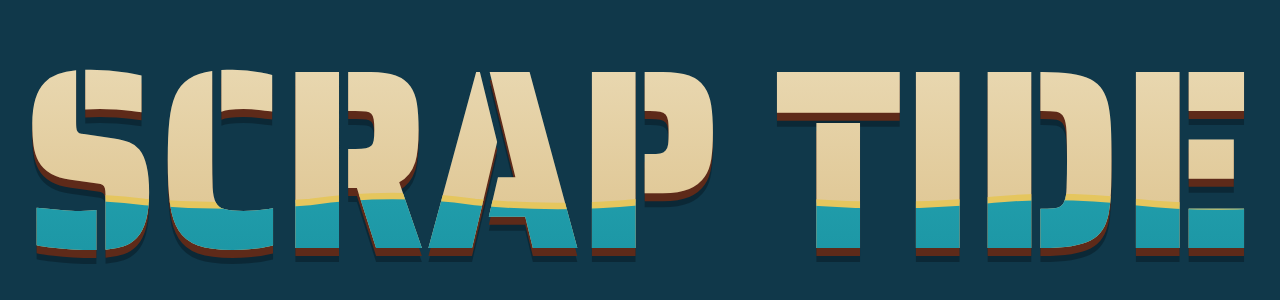
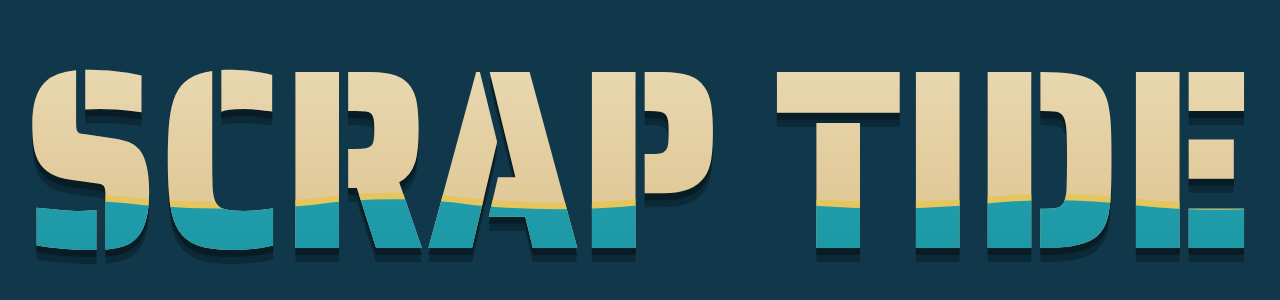
Branding: the wordmark source file matches the game (deep Abyss shadow, no brown)
- creative/branding/wordmark_scrap-tide_v1.svg regenerated from wordmarkSVG() with the font kept embedded:
  one shared text layout (<use>, with xlink:href for older editors), deep Abyss shadow, no #5E2A19 layer.
- Both PNGs re-rendered at 1280x300 (transparent, and on Abyss Blue #10384A).
- Brand guide: the wordmark's shadow is Abyss, not Oxide Rust; note to regenerate the file when the function changes.

Untouched on purpose: the TIDEBREAKERS-era v3 wordmarks (navy/gold, no brown) and the historical before/after
screens in docs.

Claude-Session: https://claude.ai/code/session_0186uXpUkXPpsTStSECZjk7H

diff --git a/docs/brand/SCRAP-TIDE-brand.md b/docs/brand/SCRAP-TIDE-brand.md
@@ -27,11 +27,14 @@ In code: `src/ui/brand.ts` (`PALETTE`) and the `:root` tokens in `src/ui/styles.
 
 ## Wordmark
 
-`creative/branding/wordmark_scrap-tide_v1.svg` (self-contained, font embedded), PNGs beside it. In the game it is
-`wordmarkSVG()` in `src/ui/brand.ts`, used on the loading screen and the title screen.
+`creative/branding/wordmark_scrap-tide_v1.svg` (self-contained, font embedded), PNGs beside it (transparent, and on
+Abyss Blue). In the game it is `wordmarkSVG()` in `src/ui/brand.ts`, used on the loading screen and the title screen;
+the SVG file is that function's output with the font embedded: regenerate it (and its PNGs) whenever the function
+changes.
 
 Stencil lettering of a salvage crate with the tide risen over its foot: above a hand-drawn waterline the letters are
-Bleached Sand, below it Sea Glass, and a Sun Gold tide-stain runs along the line, over an Oxide Rust drop shadow. The
+Bleached Sand, below it Sea Glass, and a Sun Gold tide-stain runs along the line, over a deep Abyss (`#081C26`) drop
+shadow (no rust: a brown shadow read as stray slabs beside the letters). The
 waterline is a colour change, not a cut, so it reads as plain "SCRAP TIDE" at phone-loading-screen size.
 No pirate fonts, skulls or heavy distressing.
 
